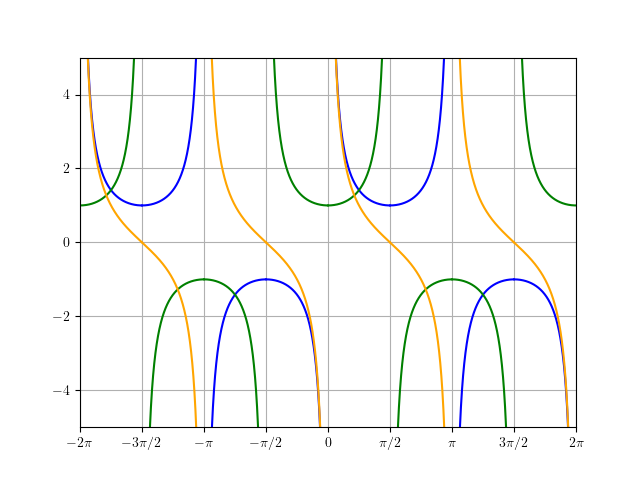
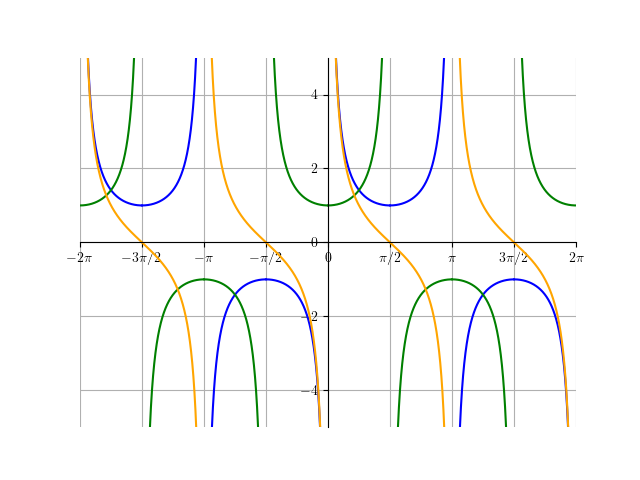
Add files via upload

diff --git a/visuals/trigfunctions.py b/visuals/trigfunctions.py
@@ -6,6 +6,8 @@ rc('text', usetex=True)
 
 d = 0.001  # smaller value of d for more accurate graph
 
+x  = np.arange(-2 * np.pi, 2 * np.pi, d)
+
 x1 = np.arange(-2 * np.pi, -(3*np.pi/2), d)
 x2 = np.arange(-(3*np.pi/2), -(np.pi), d)
 x3 = np.arange(-(np.pi), -(np.pi/2), d)
@@ -42,23 +44,50 @@ cot6 = 1 / np.tan(x6)
 cot7 = 1 / np.tan(x7)
 cot8 = 1 / np.tan(x8)
 
+sin  = np.sin(x)
+cos  = np.cos(x)
+
+tan1 = np.tan(x1)
+tan2 = np.tan(x2)
+tan3 = np.tan(x3)
+tan4 = np.tan(x4)
+tan5 = np.tan(x5)
+tan6 = np.tan(x6)
+tan7 = np.tan(x7)
+tan8 = np.tan(x8)
 
 ax = plt.gca()
-ax.spines['top'].set_color('none')
-ax.spines['left'].set_position('zero')
-ax.spines['right'].set_color('none')
-ax.spines['bottom'].set_position('zero')
+
 
 plt.xlim(-np.pi*2, np.pi*2)
 plt.ylim(-5, 5)
 ax.set_xticks(np.arange(-2*np.pi, 2*np.pi+np.pi/2, np.pi /2))
 labels = [r'$-2\pi$', r'$-3\pi/2$', r'$-\pi$', r'$-\pi/2$', '$0$', r'$\pi/2$', r'$\pi$', r'$3\pi/2$', r'$2\pi$']
 ax.set_xticklabels(labels)
-for i in range(1, 9):
+
+plt.plot(eval("x" + str(1)), eval(str("csc") + str(1)), color="blue", label="csc(x)")
+for i in range(2, 9):
 	plt.plot(eval("x" + str(i)), eval(str("csc") + str(i)), color="blue")
-for i in range(1, 9):
+plt.plot(eval("x" + str(1)), eval(str("sec") + str(1)), color="green", label="sec(x)")
+for i in range(2, 9):
 	plt.plot(eval("x" + str(i)), eval(str("sec") + str(i)), color="green")
-for i in range(1, 9):
+plt.plot(eval("x" + str(1)), eval(str("sec") + str(1)), color="orange", label="cot(x)")
+for i in range(2, 9):
  	plt.plot(eval("x" + str(i)), eval(str("cot") + str(i)), color="orange")
+
+plt.plot(x, sin, color="red", label="sin(x)")
+plt.plot(x, cos, color="purple", label="cos(x)")
+
+plt.plot(eval("x" + str(1)), eval(str("sec") + str(1)), color="pink", label="tan(x)")
+for i in range(2, 9):
+ 	plt.plot(eval("x" + str(i)), eval(str("tan") + str(i)), color="pink")
+
+plt.legend(loc="lower right")
 plt.grid(True)
+
+ax.spines['top'].set_color('none')
+ax.spines['left'].set_position('zero')
+ax.spines['right'].set_color('none')
+ax.spines['bottom'].set_position('zero')
+
 plt.show()
